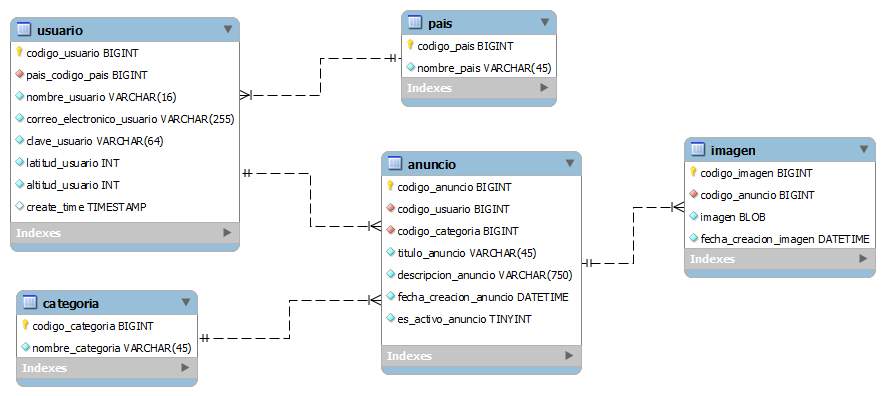
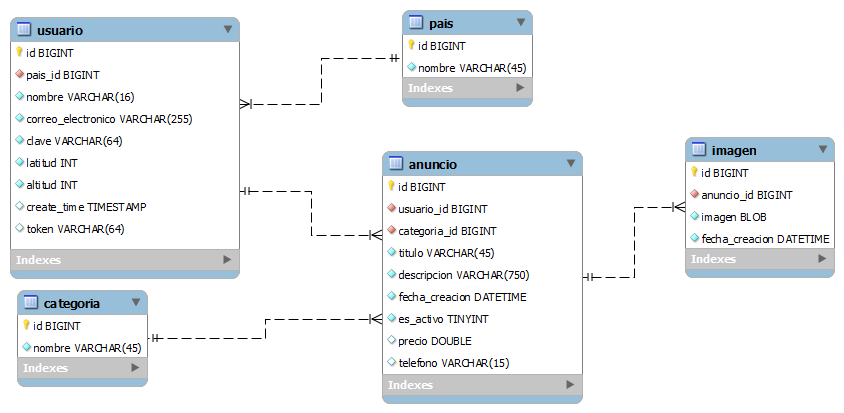
- Se agrego el servicio de busqueda de anuncios. - Se modifico la base de datos.

diff --git a/web/guananuncio/app/controllers/AnuncioController.php b/web/guananuncio/app/controllers/AnuncioController.php
@@ -60,4 +60,23 @@ class AnuncioController extends AutheticatedController {
     		return Response::json(array('estado'=>0, 'errors'=>array('mensaje'=>'Error inesperado, vuelva a intentar')));
     	}
     }
+
+    public function getAnunciosbusqueda($start, $limit) {
+        return $this->postAnunciosBusqueda($start, $limit);
+    }
+
+    public function postAnunciosbusqueda($start, $limit) {
+        $categoria = Input::get('categoria');
+        $texto = Input::get('texto');
+        $query = Anuncio::where('es_activo','=','1');
+        if(isset($categoria)) {
+            $query->where('categoria_id','=',$categoria);
+        }
+        if(isset($texto)) {
+            $query->where('titulo','like', '%'.$texto.'%')
+                  ->orWhere('descripcion', 'like', '%'.$texto.'%');
+        }
+        $anuncios = $query->skip($start*$limit)->take($limit)->get();
+        return Response::json($anuncios);
+    }
 }
